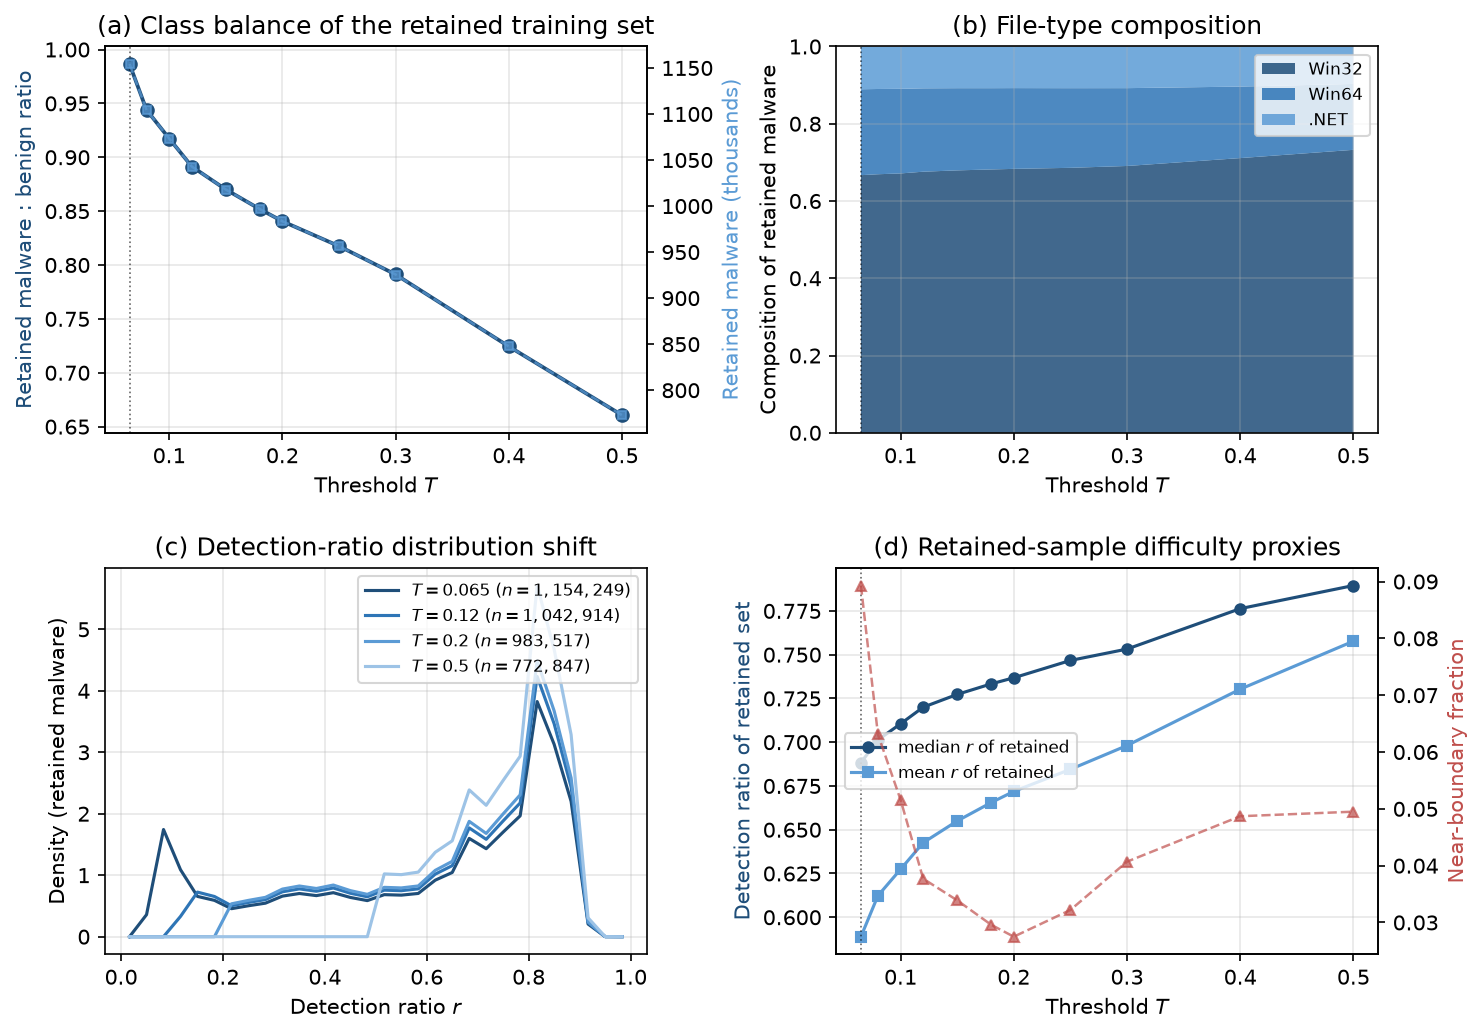
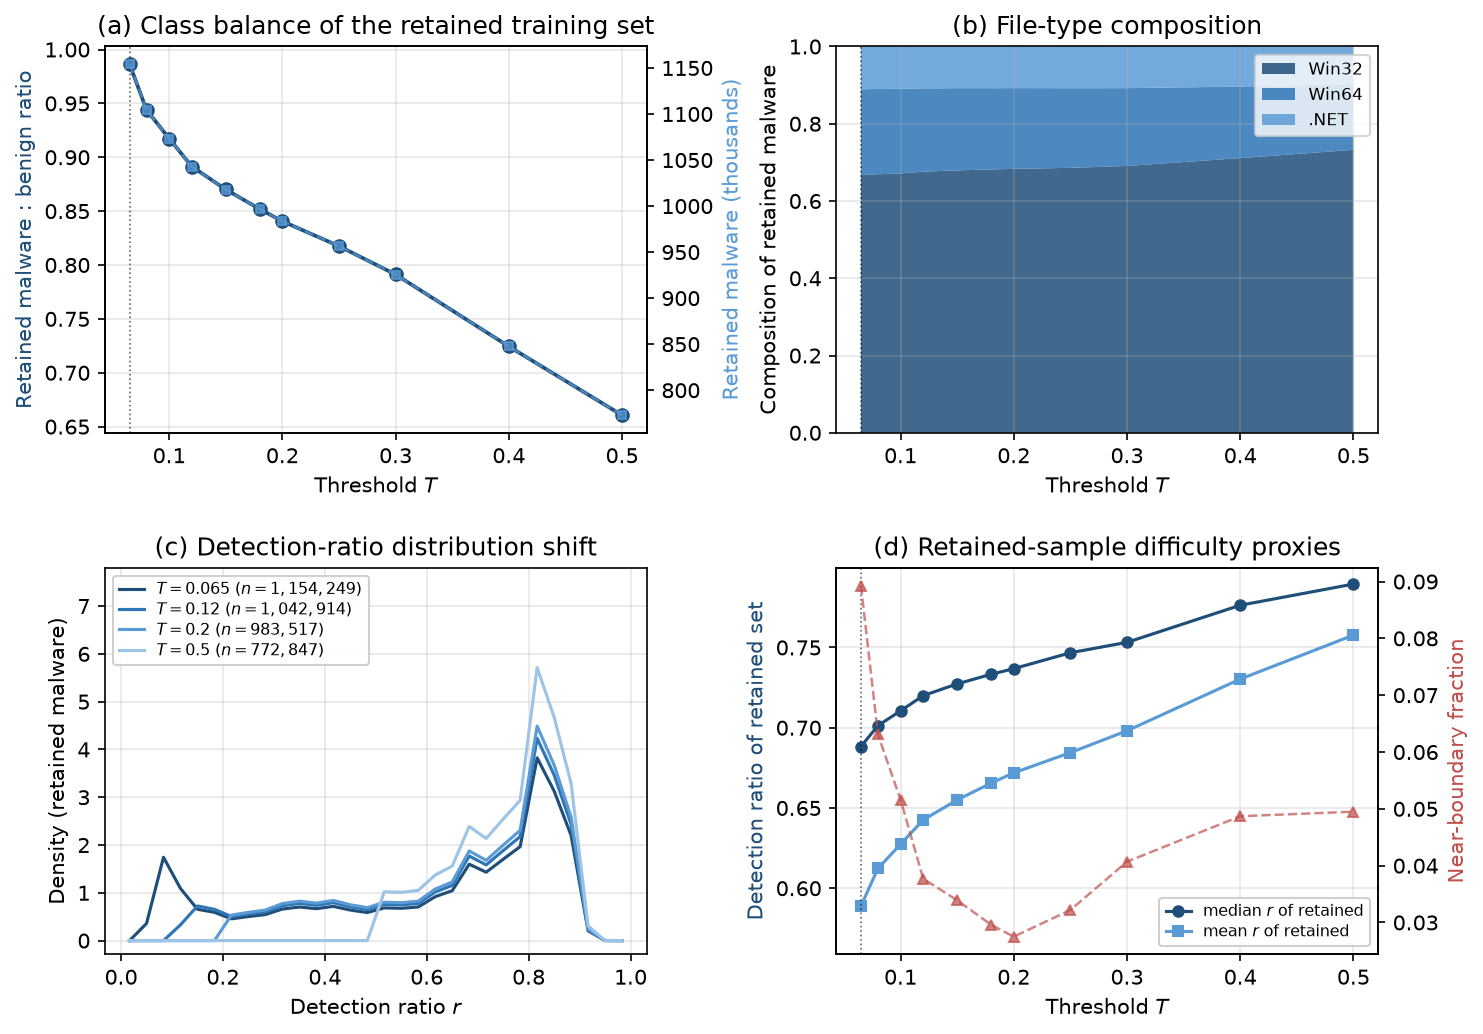
Figure 6 panel (c): move legend off the distribution peak
NCS spotted the panel-(c) legend sitting on top of the r ~ 0.85 density
peak, hiding the very feature the panel exists to show. Moved it to the
upper-left dead zone above the low-r mode, added 30% headroom so it can
never touch a curve, and shrank the box slightly. Panel (d)'s legend was
tight against the rising mean-r curve for the same reason, so it moves
to the lower-right corner, which no curve crosses.

Figure content and every number are unchanged; this is placement only.

diff --git a/revision1_analyses/mechanism_analysis.py b/revision1_analyses/mechanism_analysis.py
@@ -158,7 +158,12 @@ def make_figure_5(diagnostics: list[dict], mal_df: pl.DataFrame, out_pdf: Path):
     ax.set_xlabel("Detection ratio $r$")
     ax.set_ylabel("Density (retained malware)")
     ax.set_title("(c) Detection-ratio distribution shift")
-    ax.legend(fontsize=8, loc="upper right")
+    # The distributions peak near r = 0.85, so an upper-right legend would sit
+    # on top of the peak. Park it upper-left, over the empty mid-range, and add
+    # headroom so it never touches the curves.
+    ax.set_ylim(top=ax.get_ylim()[1] * 1.30)
+    ax.legend(fontsize=7.5, loc="upper left", framealpha=0.92,
+              borderpad=0.4, labelspacing=0.3, handlelength=1.6)
     ax.grid(True, alpha=0.3)
 
     # Panel (d): difficulty proxies
@@ -177,7 +182,11 @@ def make_figure_5(diagnostics: list[dict], mal_df: pl.DataFrame, out_pdf: Path):
     ax.set_title("(d) Retained-sample difficulty proxies")
     ax.grid(True, alpha=0.3)
     ax.axvline(0.065, color="black", lw=0.8, ls=":", alpha=0.6)
-    ax.legend(loc="center left", fontsize=8)
+    # Both retained-ratio curves rise to the top right, so the lower-right
+    # corner is the only region no curve crosses.
+    ax.set_ylim(bottom=ax.get_ylim()[0] - 0.02)
+    ax.legend(loc="lower right", fontsize=7.5, framealpha=0.92,
+              borderpad=0.4, labelspacing=0.3, handlelength=1.6)
 
     fig.tight_layout()
     fig.subplots_adjust(wspace=0.35, hspace=0.35)
